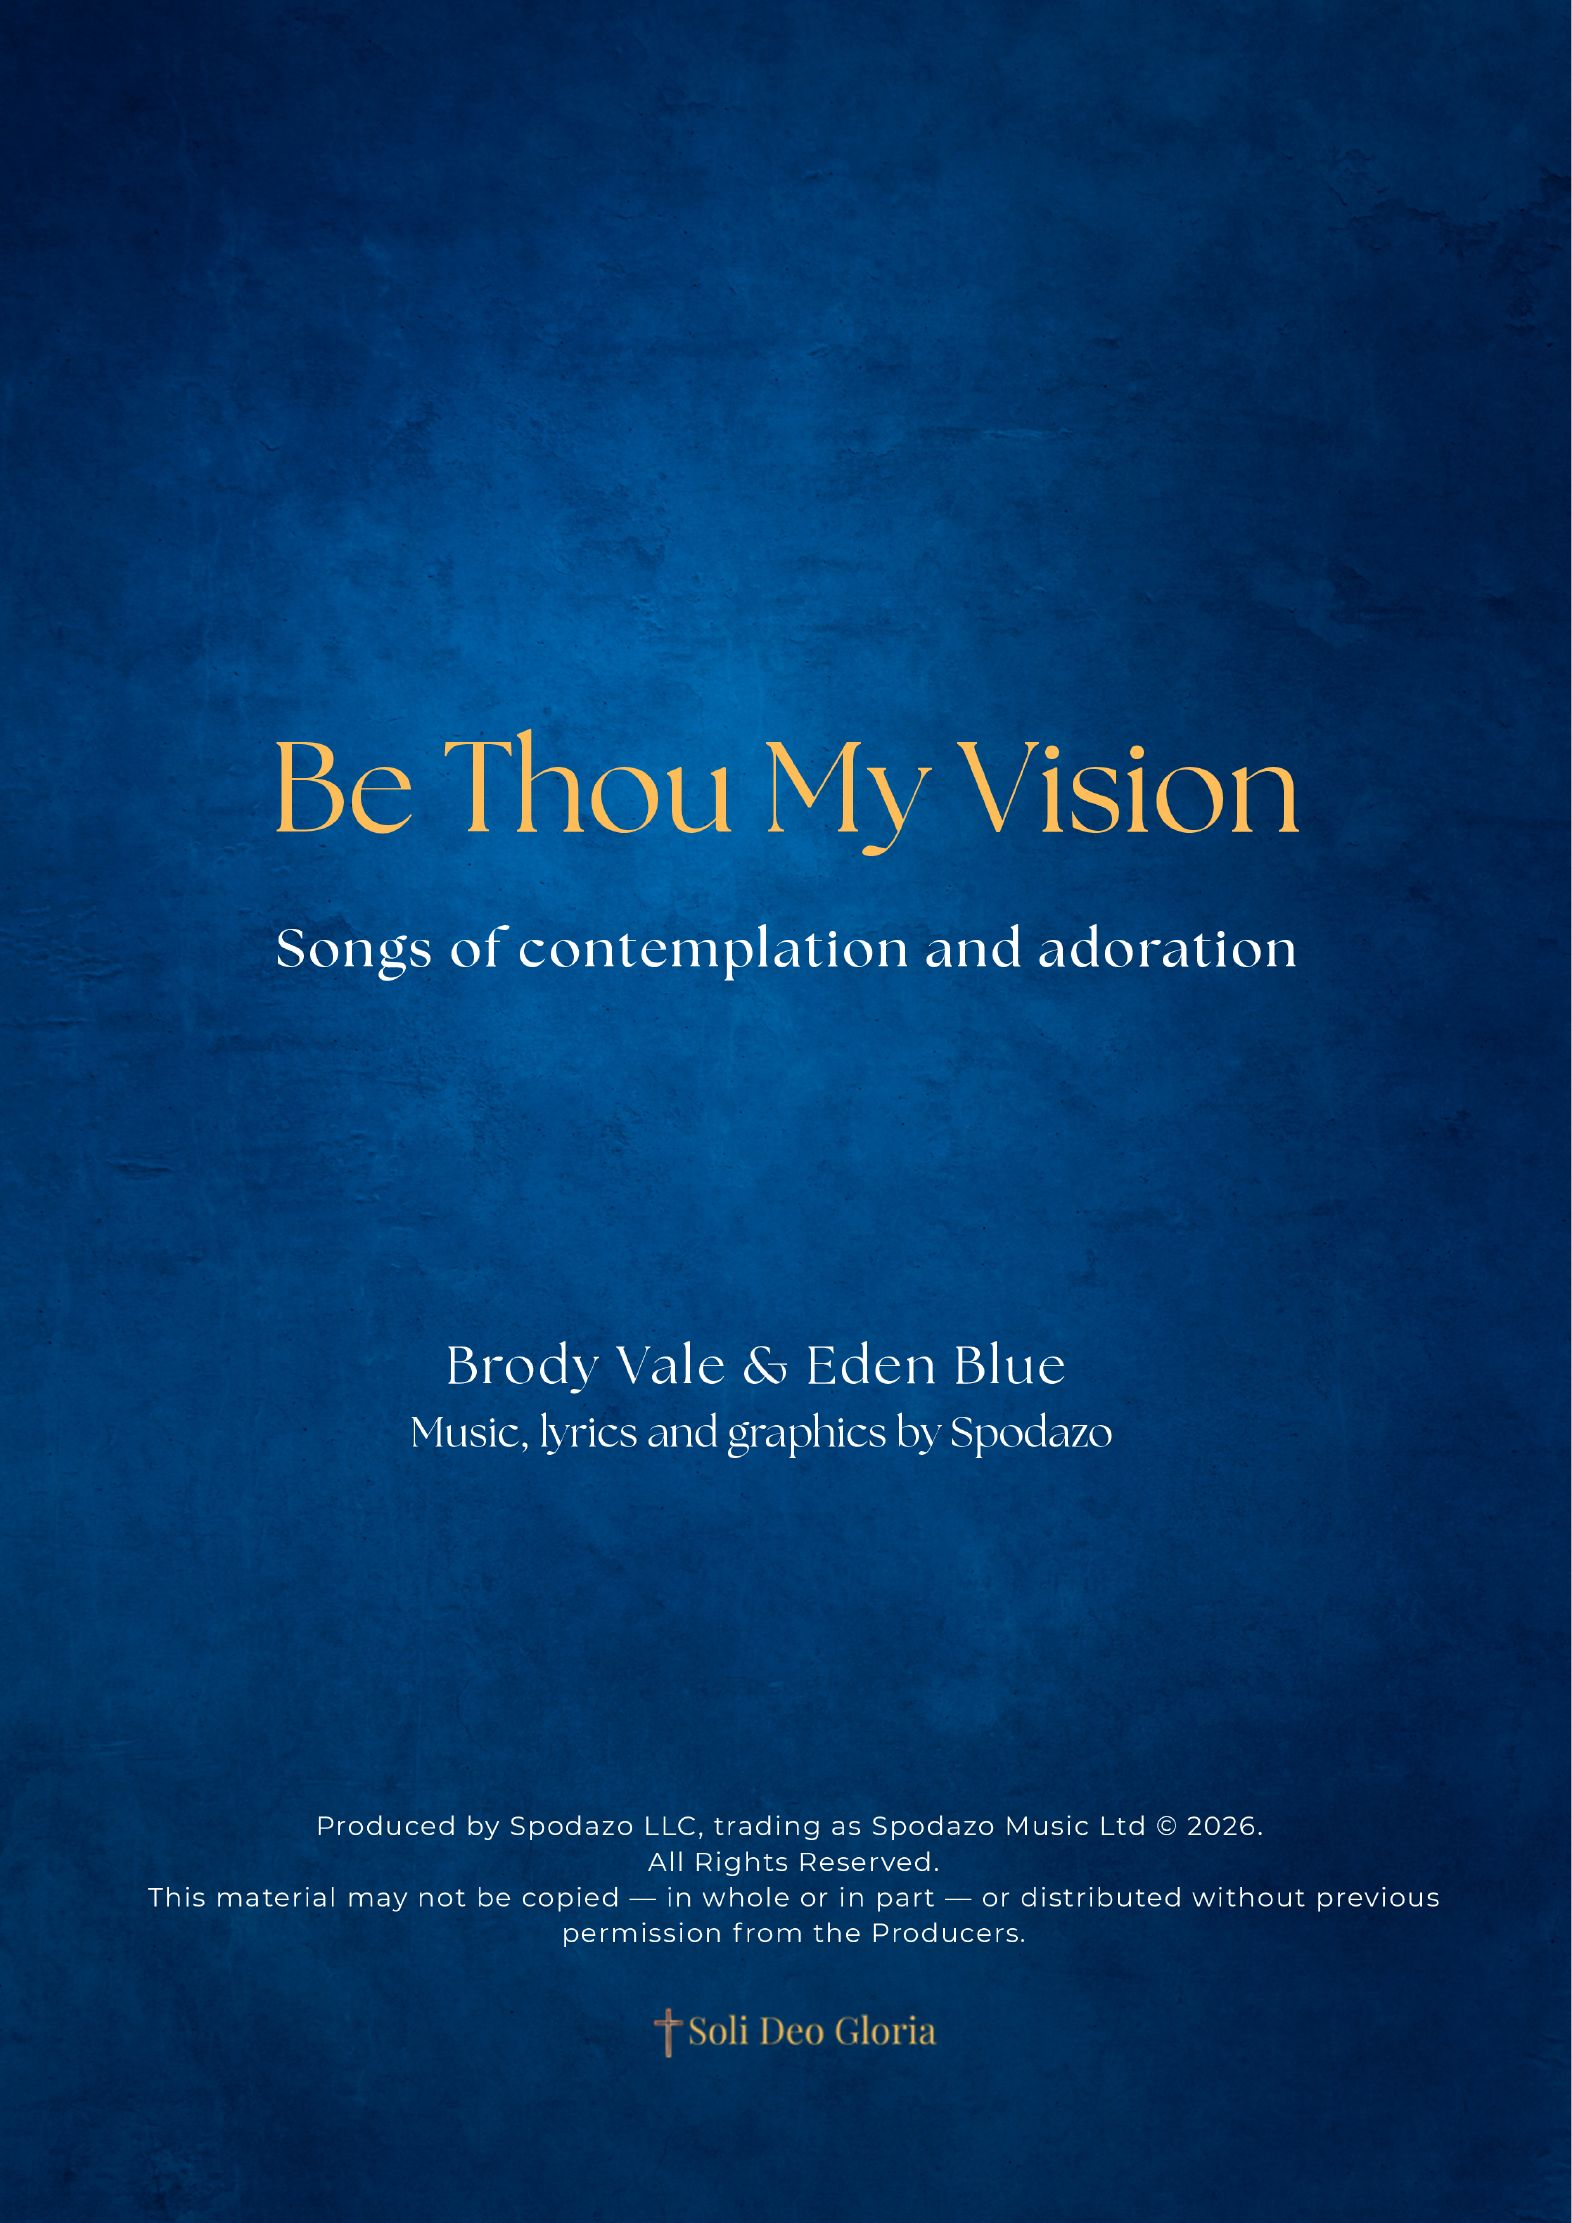
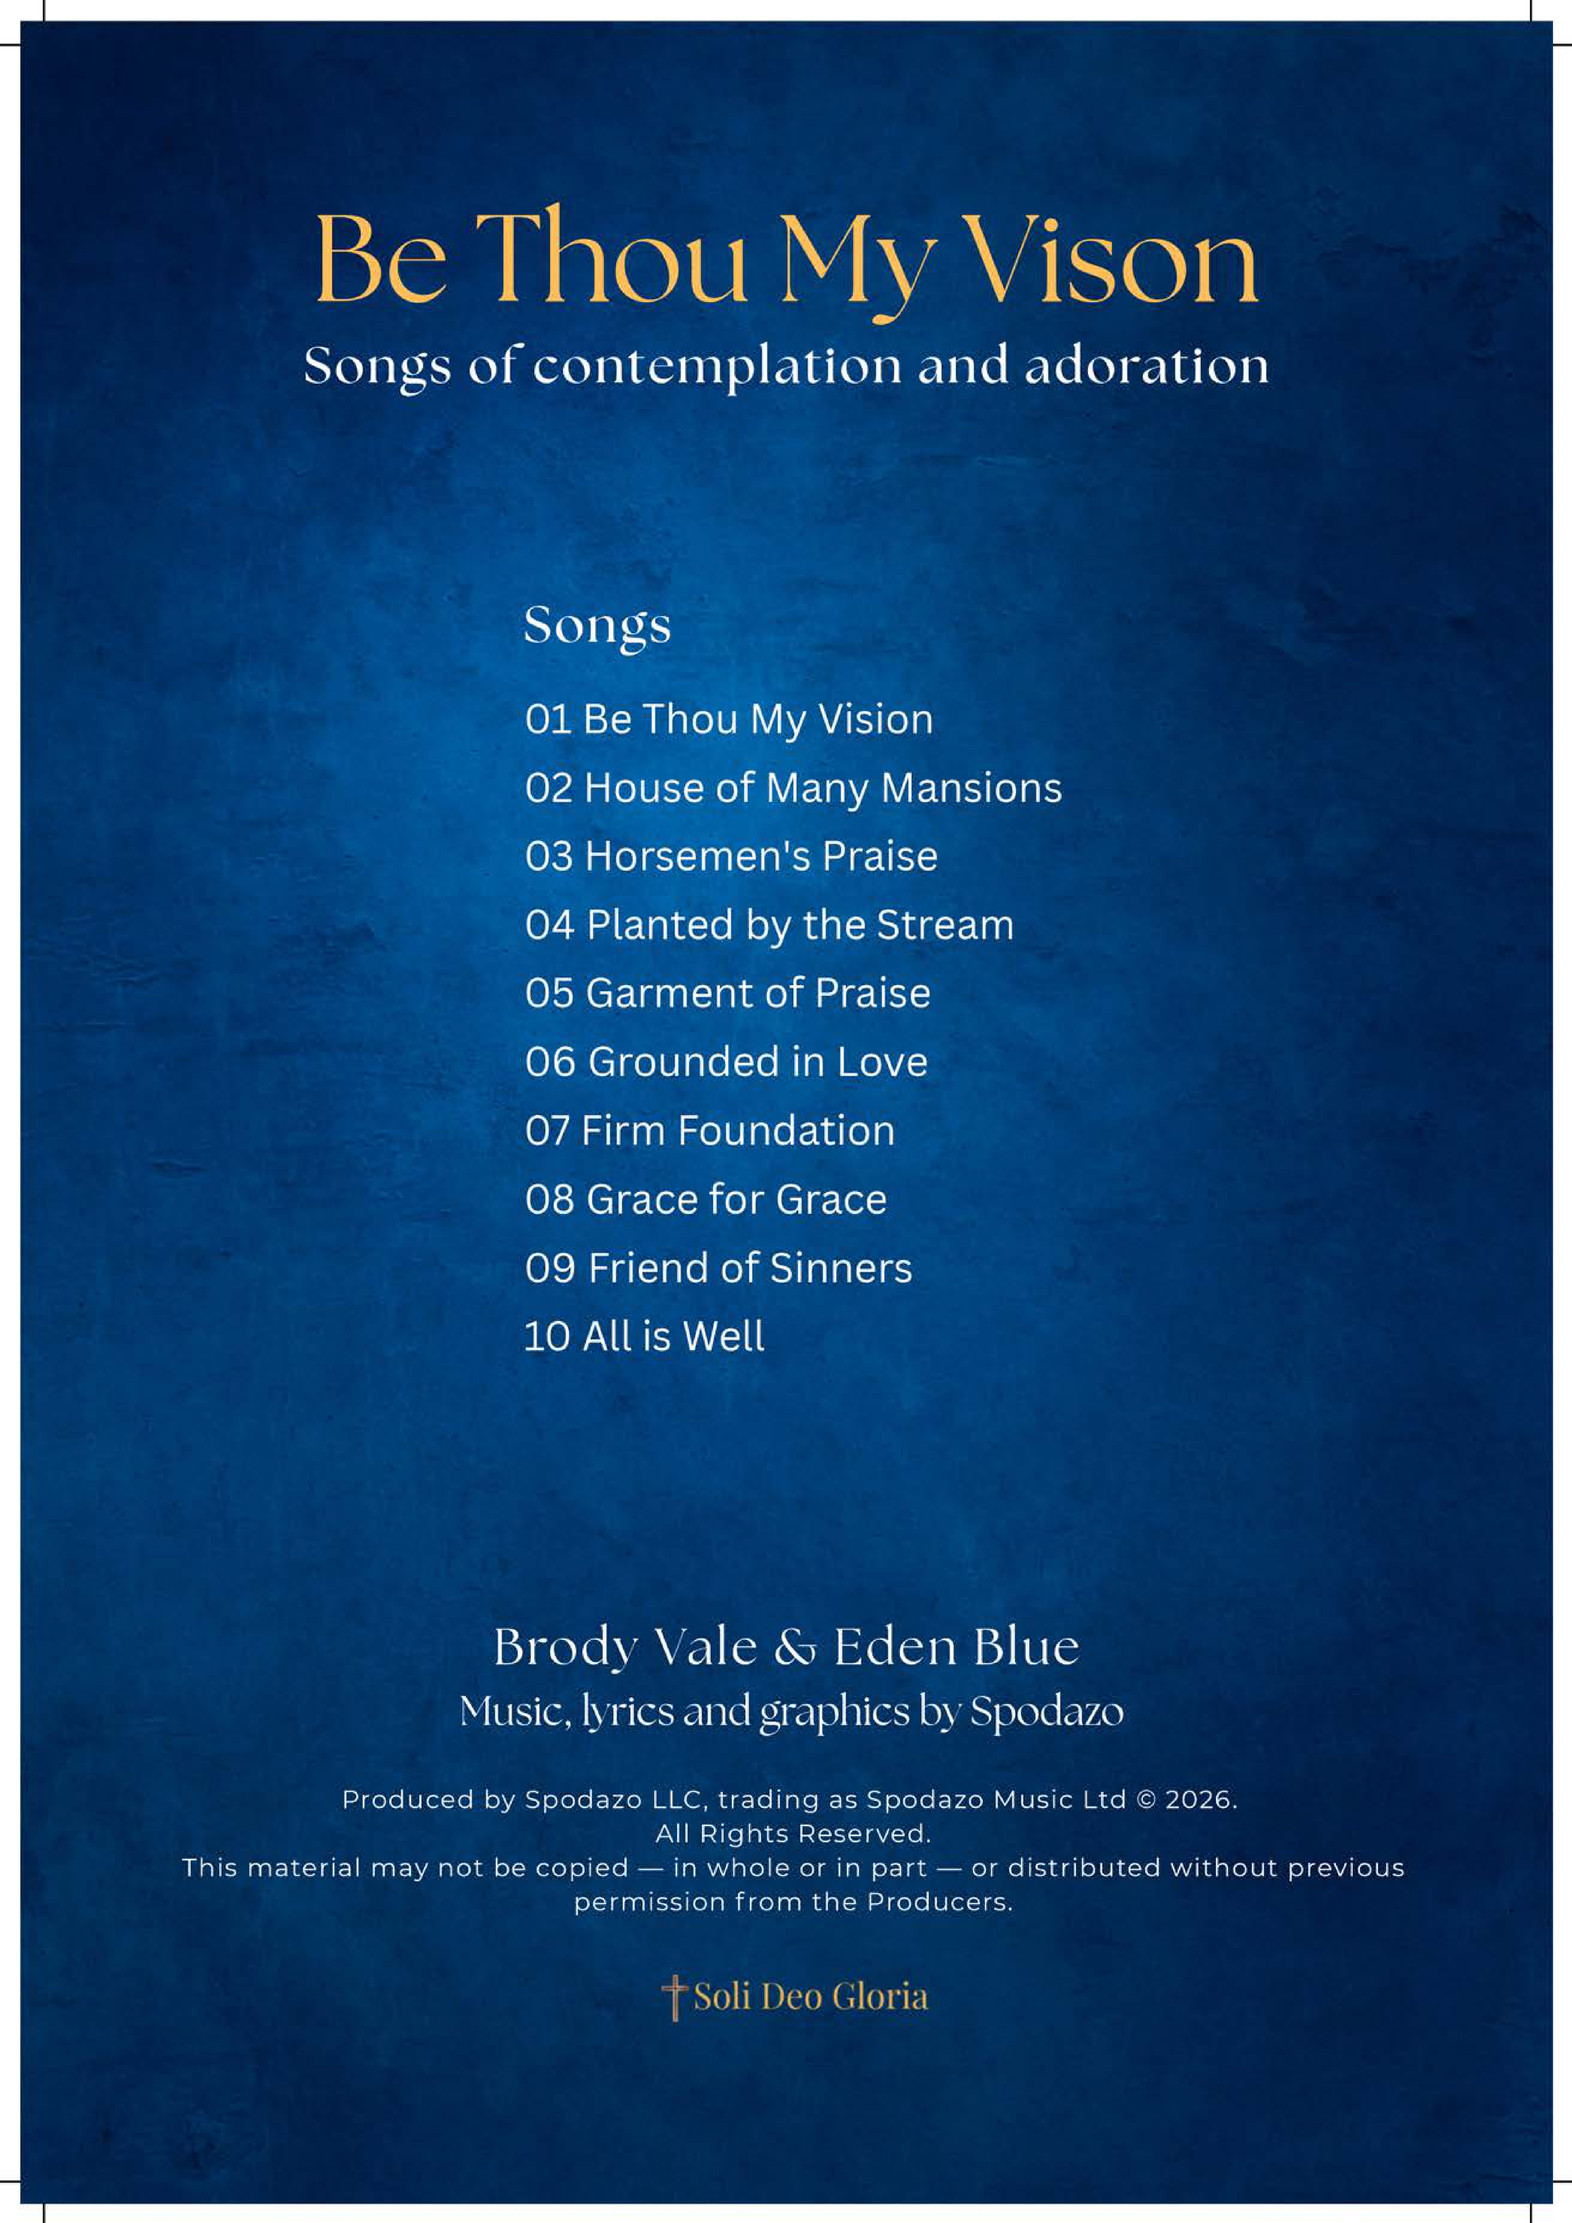
Replace Be Thou pages 2–3 and move song-list taps
Swap in the new contents and Forward pages, and put the invisible
song jumps on the centered list on page 2.

diff --git a/client/public/flipbooks/be-thou-my-vision/index.html b/client/public/flipbooks/be-thou-my-vision/index.html
@@ -52,7 +52,7 @@ body { background: var(--ground); color: #fff; }
 .hot:hover, .hot:focus-visible { background: rgba(255,255,255,.10); outline: none; }
 .hot-again { left: 36%; width: 28%; top: 40.3%; height: 5.2%; }
 .hot-close { left: 40.5%; width: 19%; top: 46.9%; height: 5.2%; }
-.hot-song { left: 7%; width: 56%; }
+.hot-song { left: 22%; width: 56%; }
 .leaf .hot { display: none !important; }
 .slot:not(.hide) .page:not(.empty) { box-shadow: 0 18px 50px rgba(var(--ink-shadow), .45), 0 4px 14px rgba(var(--ink-shadow), .35); }
 .face .page { box-shadow: none; }
@@ -190,18 +190,18 @@ body { background: var(--ground); color: #fff; }
 
   var single = false, idx = 0, pg = 0, busy = false, pw = 0, ph = 0, jumpPage = 0, turnGen = 0, turnAnims = [];
 
-  // Forward page (picture 3): invisible taps over the printed song list jump to each song.
+  // Contents page (picture 2): invisible taps over the printed song list jump to each song.
   var SONG_NAV = [
-    { page: 4, top: 53.3, label: '01 Be Thou My Vision' },
-    { page: 6, top: 55.5, label: '02 House of Many Mansions' },
-    { page: 7, top: 57.7, label: "03 Horsemen's Praise" },
-    { page: 8, top: 60.0, label: '04 Planted by the Stream' },
-    { page: 10, top: 62.2, label: '05 Garment of Praise' },
-    { page: 11, top: 64.4, label: '06 Grounded in Love' },
-    { page: 12, top: 66.6, label: '07 Firm Foundation' },
-    { page: 14, top: 68.8, label: '08 Grace for Grace' },
-    { page: 15, top: 71.1, label: '09 Friend of Sinners' },
-    { page: 16, top: 73.3, label: '10 All is Well' }
+    { page: 4, top: 31.53, label: '01 Be Thou My Vision' },
+    { page: 6, top: 34.64, label: '02 House of Many Mansions' },
+    { page: 7, top: 37.74, label: "03 Horsemen's Praise" },
+    { page: 8, top: 40.80, label: '04 Planted by the Stream' },
+    { page: 10, top: 43.86, label: '05 Garment of Praise' },
+    { page: 11, top: 46.96, label: '06 Grounded in Love' },
+    { page: 12, top: 50.07, label: '07 Firm Foundation' },
+    { page: 14, top: 53.13, label: '08 Grace for Grace' },
+    { page: 15, top: 56.23, label: '09 Friend of Sinners' },
+    { page: 16, top: 59.33, label: '10 All is Well' }
   ];
 
   function spreadIndexForPage(n) {
@@ -251,7 +251,7 @@ body { background: var(--ground); color: #fff; }
       b.className = 'hot hot-song';
       var next = SONG_NAV[i + 1];
       var top = song.top;
-      var bot = next ? next.top : song.top + 2.4;
+      var bot = next ? next.top : song.top + 3.1;
       b.style.top = top + '%';
       b.style.height = (bot - top) + '%';
       b.setAttribute('aria-label', song.label);
@@ -284,7 +284,7 @@ body { background: var(--ground); color: #fff; }
       if (n > IMAGES) { img.removeAttribute('src'); p.classList.add('again'); return Promise.resolve(); }   // extra link page
       p.classList.add('link');   // link laid over the closing picture
     }
-    if (n === 3) {
+    if (n === 2) {
       p.classList.add('songs');
       mountSongHots(p);
     }

diff --git a/shared/flip-jump.test.ts b/shared/flip-jump.test.ts
@@ -36,6 +36,19 @@ test("bundled flipbooks jump on double-click arrows and mobile edges", async () 
   }
 });
 
+test("Be Thou song list taps live on the contents page", async () => {
+  const { readFile } = await import("node:fs/promises");
+  const html = await readFile(
+    new URL("../client/public/flipbooks/be-thou-my-vision/index.html", import.meta.url),
+    "utf8",
+  );
+  assert.match(html, /if \(n === 2\) \{\s*p\.classList\.add\('songs'\)/);
+  assert.match(html, /label: '01 Be Thou My Vision'/);
+  assert.match(html, /label: '10 All is Well'/);
+  assert.match(html, /page: 4, top: 31\.53/);
+  assert.equal([...html.matchAll(/label: ['"]/g)].length, 10);
+});
+
 test("in-app reader jumps on double-click zones and mobile edge taps", async () => {
   const { readFile } = await import("node:fs/promises");
   const runtime = await readFile(new URL("../client/src/flipbook/reader-runtime.js", import.meta.url), "utf8");
